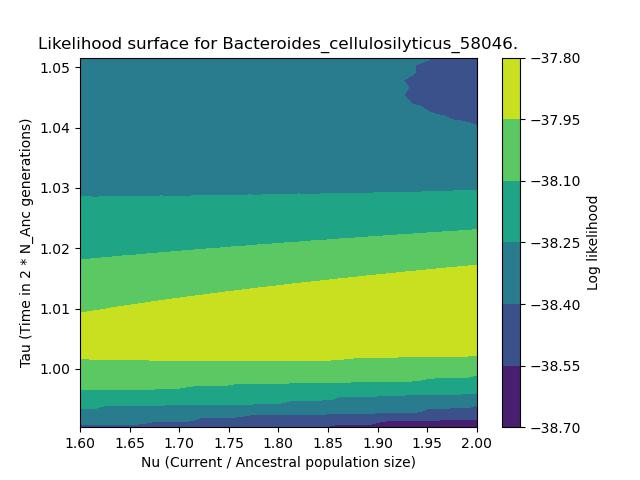
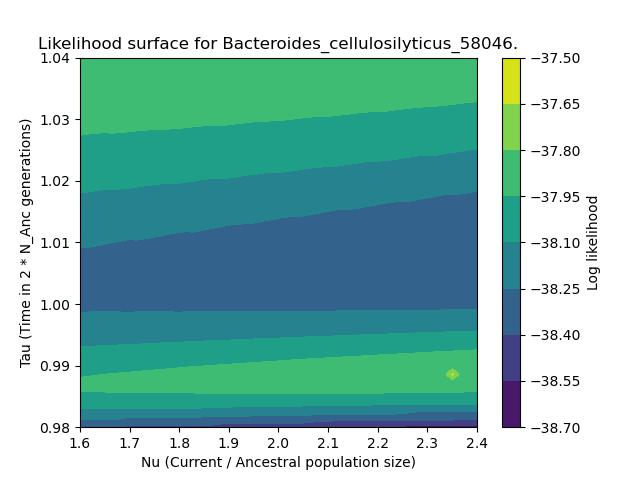
B. cellulosilyticus

diff --git a/Scripts/plot_likelihood.py b/Scripts/plot_likelihood.py
@@ -467,8 +467,9 @@ class PlotLikelihood():
                 npts = 50
 
                 # x_range = numpy.linspace(x * 0.97, x * 1.03, npts)
-                x_range = numpy.linspace(1.6, 2.0, npts)
-                y_range = numpy.linspace(y * 0.97, y * 1.03, npts)
+                x_range = numpy.linspace(1.6, 2.4, npts)
+                # y_range = numpy.linspace(y * 0.97, y * 1.03, npts)
+                y_range = numpy.linspace(0.98, 1.04, npts)
 
                 X, Y = numpy.meshgrid(x_range, y_range)
 
